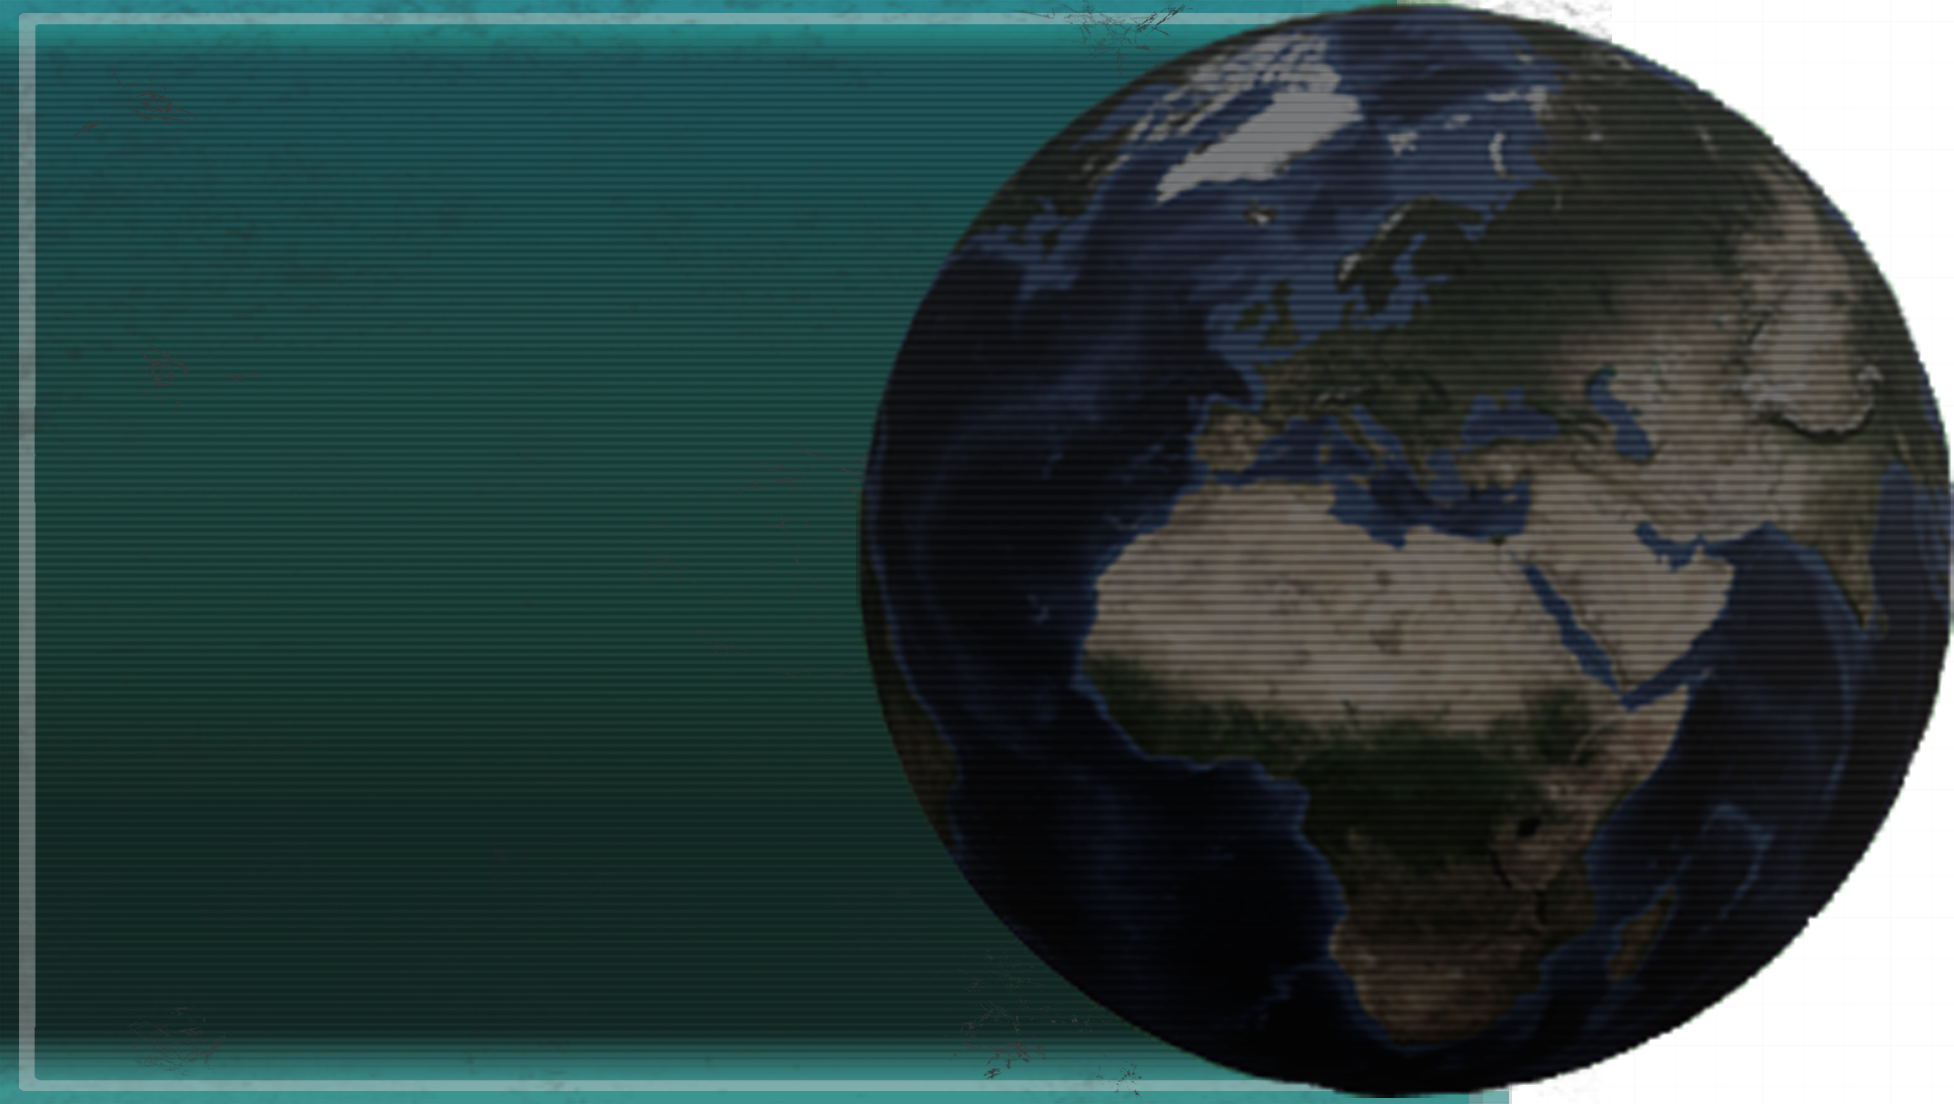
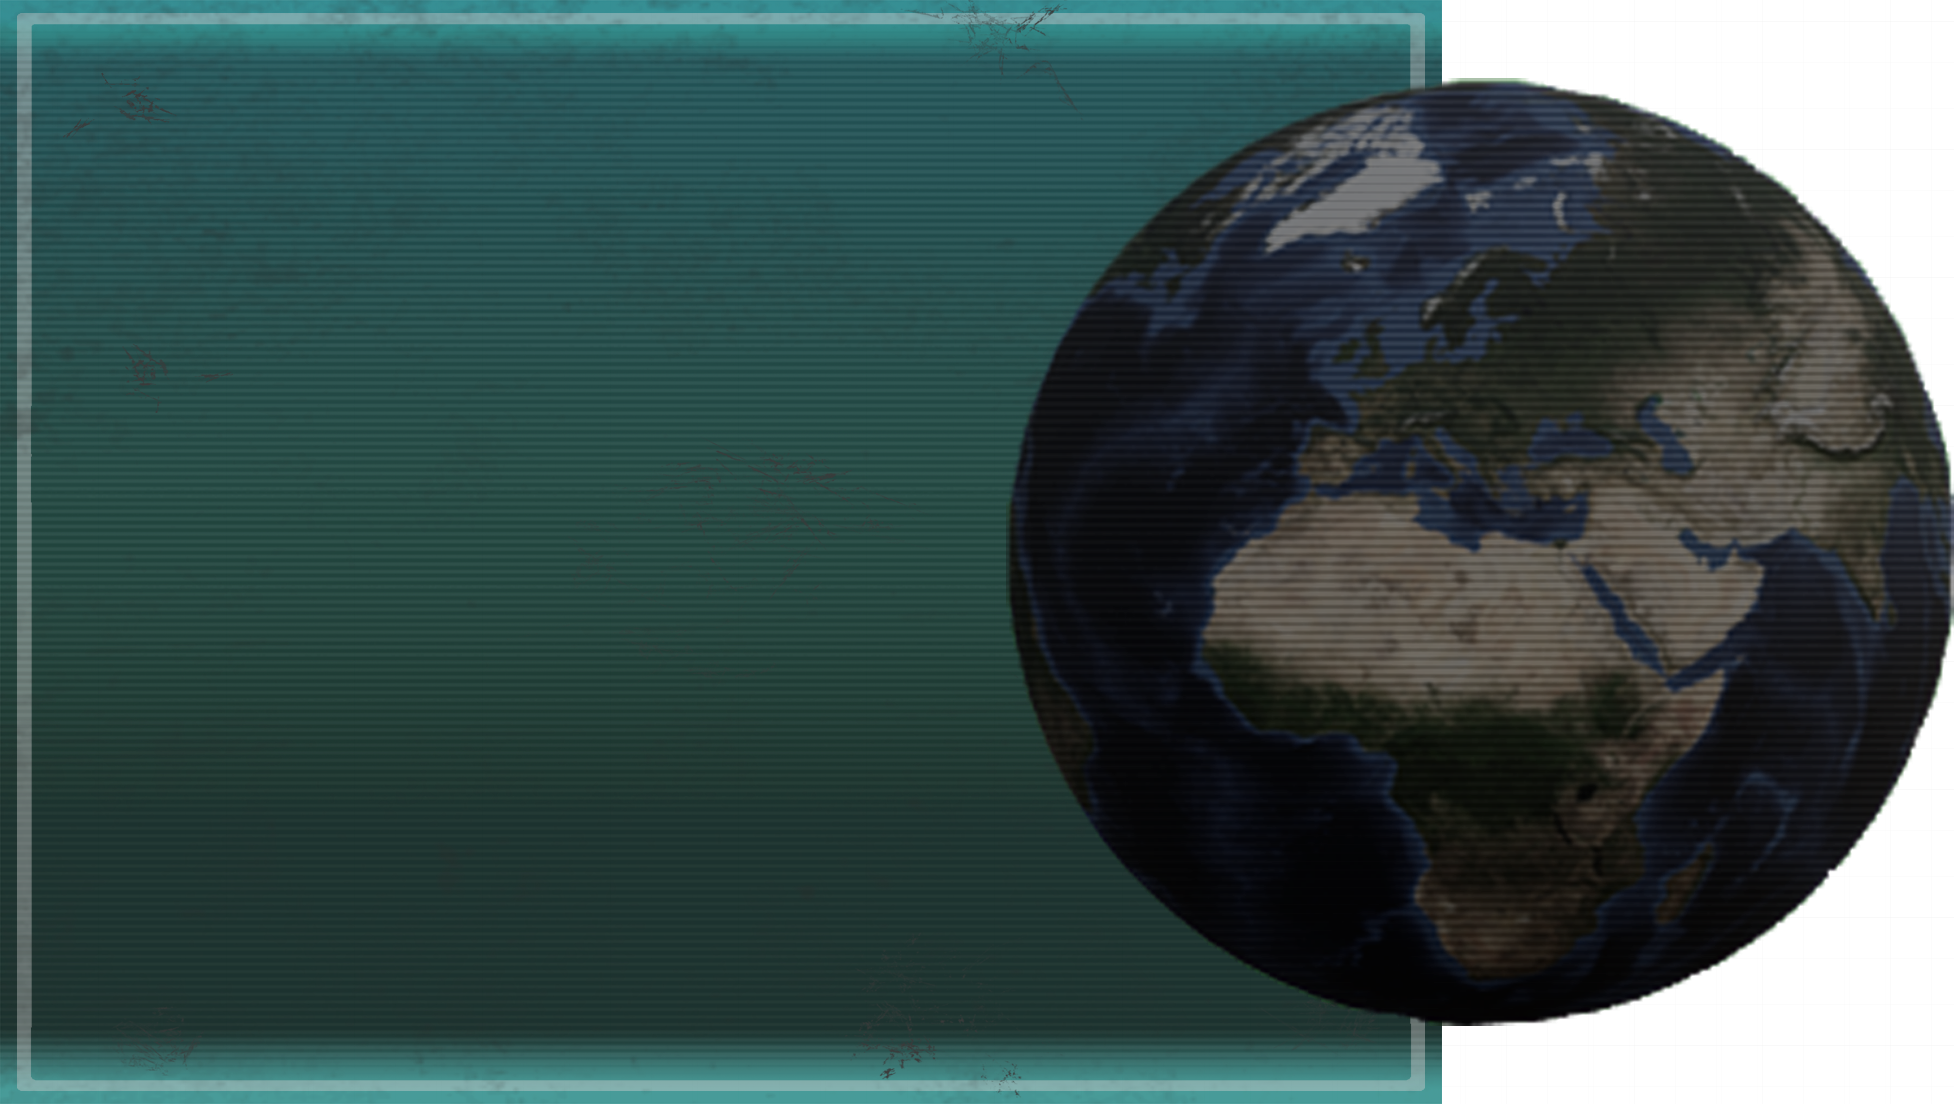
fgfc

diff --git a/styles.css b/styles.css
@@ -82,7 +82,7 @@ body, html {
 }
 
 .pagebg {
-    background-image: url(background.png);
+    background-image: url('Profilebg.png');
     background-size: cover;
     height: 100%;
 }
@@ -115,14 +115,14 @@ body, html {
     width: 40%; /* Allocate width to image content, adjust as needed */
     display: flex; /* Use Flexbox */
     flex-direction: column; /* Stack images vertically */
-    justify-content: flex-start; /* Align images at the start */
-    align-items: center; /* Center images horizontally */
-    gap: 10px; /* Space between images */
+    justify-content: flex-start; 
+    align-items: center; 
+    gap: 10px; 
 }
 
 .image-content img {
-    width: 90%; /* Make images take up the full width of their container */
-    height: auto; /* Maintain aspect ratio */
+    width: 90%; 
+    height: auto; 
 }
 
 h1, h4, p, a{
@@ -131,50 +131,49 @@ h1, h4, p, a{
 }
 
 .headline {
-    color: #b30000;
+    color: #b4b4b4;
     font-weight: bold;
-    text-shadow: 2px 2px black;
 }
 
 .Info-area {
-    text-align: center; /* Center the text */
+    text-align: center; 
     display: flex;
-    flex-direction: column; /* Stack children vertically */
-    align-items: center; /* Align children to the center */
-    justify-content: center; /* Center children vertically in the container */
-    margin-top: 20px; /* Adjust as needed to space it from the logo */
+    flex-direction: column; 
+    align-items: center; 
+    justify-content: center; 
+    margin-top: 20px; 
 }
 
 .info-details {
-    display: flex; /* Enables Flexbox */
-    justify-content: center; /* Center items horizontally */
-    align-items: center; /* Center items vertically */
-    gap: 20px; /* Adjust the space between each h4 element */
-    flex-wrap: wrap; /* Allows items to wrap in small screens */
+    display: flex; 
+    justify-content: center; 
+    align-items: center; 
+    gap: 20px; 
+    flex-wrap: wrap; 
 }
 
 h4 {
-    margin: 0; /* Removes default margins from h4 elements for cleaner alignment */
+    margin: 0; 
 }
 
 .download-img {
-    width: 300px; /* Adjust based on the desired size of your image */
-    height: auto; /* Maintain aspect ratio */
-    cursor: pointer; /* Change the cursor to indicate it's clickable */
+    width: 300px;
+    height: auto; 
+    cursor: pointer; 
 }
 
 .download-link {
-    display: block; /* Needed to size the <a> element */
-    width: 300px; /* Width of the image */
-    height: 45px; /* Height of the image */
-    background-image: url('ButtonNormal.png'); /* Initial image */
-    background-size: cover; /* Cover the area of the <a> tag */
-    background-position: center; /* Center the background image */
-    cursor: pointer; /* Change cursor to indicate it's clickable */
+    display: block; 
+    width: 300px; 
+    height: 45px; 
+    background-image: url('ButtonNormal.png'); 
+    background-size: cover; 
+    background-position: center; 
+    cursor: pointer; 
     position: absolute;
-    right: 0px; /* Adjust as needed */
-    bottom: 0px; /* Adjust as needed */
-    z-index: 10; /* Ensure it's above other content */
+    right: 0px;
+    bottom: 0px;
+    z-index: 10;
     font-size: 25px;
     text-decoration: none;
 }
@@ -204,9 +203,9 @@ h4 {
 
 .page-footer {
     width: 100%;
-    background-color: #000; /* Black background */
-    color: #fff; /* White text color */
-    padding: 10px 0; /* Adjust padding as needed */
+    background-color: #000;
+    color: #fff;
+    padding: 10px 0;   
 }
 
 .racers-header-background {
@@ -339,4 +338,13 @@ h4 {
 body {
     background: url('Profilebg.png') no-repeat center center fixed;
     background-size: cover;
+}
+
+.page-footer2 {
+    margin-top: auto;
+    bottom: 0;
+    width: 100%;
+    background-color: #000;
+    color: #fff;
+    padding: 10px 0;   
 }

diff --git a/Mars.html b/Mars.html
@@ -48,20 +48,27 @@
             <!-- Text element with absolute positioning -->
             <div class="position-absolute" style="margin: 35px; left: 10%; z-index: 2;">
                 <h1 class="text-white px-2"><b>Mars</b></h1>
-                <h3 class="text-white px-2">Capital: </h3>
+                <h3 class="text-white px-2">Capital: Ares</h3>
                 <h3 class="text-white px-2">Faction: United Earth Systems (UES)</h3>
+                <h3 class="text-white px-2">Population: 4.3 billion.</h3>
                 <br>
-                <p class="text-white px-2">Flavor text</p>
+                <p class="text-white px-2">The first planet to be colonized by the United Earth Systems following the Interstellar Exodus, during which<br>
+                humanity set out from their home planet of Earth to explore and colonize worlds in our own solar system and beyond.</p>
+                <p class="text-white px-2">Soon interest faded in Mars, as the larger alien community of the Milky way galaxy revealed themselves to the UES <br> and invited us to join The Milky way Consortium.<br>
+                    Following the near abandonment of Mars by the UES, it was left to private individuals and corporations to colonize the planet.</p>
+                <p class="text-white px-2">The planets artificial atmosphere is powered by massive machines at the poles, thanks to which the air is breathable.</p>
+                <p class="text-white px-2">Nearly 80% of the planets population live in 3 massive hive cities, of which the biggest and most notable is the capital city, Ares.<br>
+                The rest of the planets landscape consists of small towns and settlements, not unlike those of the old wild west in 19th century Earth.<br>
+            Unlike in the hive cities, where corruption runs rampant, but there is some semblance of order, the rural settlements<br>
+        are a lawless wasteland, ruled by ruthless outlaw gangs such as the Hell's Sixteen.</p>
             </div>
             <!-- Image -->
-            <img src="MarsInfo.png" alt="Roadstar Information" class="position-absolute w-90 h-100" style="left: 10%">
+            <img src="MarsInfo.png" alt="Roadstar Information" class="position-absolute w-90 h-100 img-fluid" style="left: 10%">
         </div>
     </div>
-    
-    
-    
 
-<footer class="page-footer">
+    
+<footer class="page-footer2">
     <div class="container-fluid">
         <div class="row">
             <div class="col text-start">

diff --git a/Earth.html b/Earth.html
@@ -50,18 +50,25 @@
                 <h1 class="text-white px-2"><b>Earth</b></h1>
                 <h3 class="text-white px-2">Capital: Tokyo</h3>
                 <h3 class="text-white px-2">Faction: United Earth Systems (UES)</h3>
+                <h3 class="text-white px-2">Population: 10 billion.</h3>
                 <br>
-                <p class="text-white px-2">Flavor text</p>
+                <p class="text-white px-2">The home of humanity and the capital planet of the UES.</p>
+                <p class="text-white px-2">Following a massive meteor strike in the year 2035, large parts of earth were devastated. <br>Soon after humanity discovered in the meteors remains
+                a new, incredibly powerful energy source.</p>
+                <p class="text-white px-2">The discovery of this resource soon led to fighting among the factions of Earth, eventually culminating in what is known as World War III.<br>
+                    After years of devastating war, the faction known as the Western Alliance emerged victorious, controlling 98% of the resource.<br>
+                    Being faced with the overwhelming technological superiority of the West, the other factions had no choice but to surrender.</p>
+                <p class="text-white px-2">This led to the unification of Earth under the banner of The Western Alliance,
+                which was renamed United Earth Systems <br> following the Interstellar Exodus during which the united forces of humanity set out to colonize the galaxy.</p>
+                <p class="text-white px-2"></p>
             </div>
             <!-- Image -->
-            <img src="EarthInfo.png" alt="Roadstar Information" class="position-absolute w-90 h-100" style="left: 10%">
+            <img src="EarthInfo.png" alt="Roadstar Information" class="position-absolute w-90 h-100 img-fluid" style="left: 10%">
         </div>
     </div>
     
-    
-    
 
-<footer class="page-footer">
+<footer class="page-footer2">
     <div class="container-fluid">
         <div class="row">
             <div class="col text-start">

diff --git a/Home.html b/Home.html
@@ -61,19 +61,20 @@
 </div>
 </div>
 
-<div class="content-area">
+<div class="content-area" style="background-image: url('Screenbg.png');">
     <div class="text-and-images">
         <!-- Text Container -->
-        <div class="text-content">
-            <h1 class="headline">Welcome to the 24th century</h1>
-            <p>Vroom vroom</p>
-            <p>NYOOOM</p>
-            <p>Voosh</p>
+        <div class="text-content" style="margin-top: 50px;">
+            <h1 class="headline">Welcome to the 24th century</h1><br>
+            <h4>In the year 2372 the galaxys top entertainment is the deadly competition known as [BLANK], hosted by the Andromeda corp.</h4><br>
+            <h4>In this deadly race there are no rules, racing at over 1000 km/h, every mistake could be your last.</h4><br>
+            <h4>Take part in races in the most iconic locations of the Milky way galaxy, such as the dry deserts of Mars, the lush forests of [ANTLAND] or the deafening void of Gaia BH1.</h4><br>
+            <h4>The Andromeda corp. is not responsible for property damage, injuries or loss of life suffered during the race.</h4>
             <!-- Add more <p> tags as needed -->
         </div>
 
         <!-- Images Container -->
-        <div class="image-content">
+        <div class="image-content" style="margin-top: 50px;">
             <img src="promo3.png" alt="First Image">
             <img src="promo3.png" alt="Second Image">
         </div>

diff --git a/Roadstar.html b/Roadstar.html
@@ -50,15 +50,16 @@
                 <h1 class="text-white px-2"><b>Michael Roadstar</b></h1>
                 <h3 class="text-white px-2">Home planet: Mars</h3>
                 <h3 class="text-white px-2">Occupation: Bounty hunter</h3>
+                <h3 class="text-white px-2">Age: 37</h3>
                 <br>
                 <p class="text-white px-2">Flavor text</p>
             </div>
             <!-- Image -->
-            <img src="RoadstarInfo.png" alt="Roadstar Information" class="position-absolute w-90 h-100" style="left: 10%">
+            <img src="RoadstarInfo.png" alt="Roadstar Information" class="position-absolute w-90 h-100 img-fluid" style="left: 10%">
         </div>
     </div>
     
-<footer class="page-footer">
+<footer class="page-footer2">
     <div class="container-fluid">
         <div class="row">
             <div class="col text-start">

diff --git a/Moon.html b/Moon.html
@@ -54,14 +54,14 @@
                 <p class="text-white px-2">Flavor text</p>
             </div>
             <!-- Image -->
-            <img src="MoonInfo.png" alt="Roadstar Information" class="position-absolute w-90 h-100" style="left: 10%">
+            <img src="MoonInfo.png" alt="Roadstar Information" class="position-absolute w-90 h-100 img-fluid" style="left: 10%">
         </div>
     </div>
     
     
     
 
-<footer class="page-footer">
+<footer class="page-footer2">
     <div class="container-fluid">
         <div class="row">
             <div class="col text-start">

diff --git a/Locations.html b/Locations.html
@@ -87,7 +87,9 @@
     </div>
 </div>
 
-<footer class="page-footer">
+<div class="content-area"></div>
+
+<footer class="page-footer2">
     <div class="container-fluid">
         <div class="row">
             <div class="col text-start">

diff --git a/Racers.html b/Racers.html
@@ -87,7 +87,9 @@
     </div>
 </div>
 
-<footer class="page-footer">
+<div class="content-area"></div>
+
+<footer class="page-footer2">
     <div class="container-fluid">
         <div class="row">
             <div class="col text-start">
